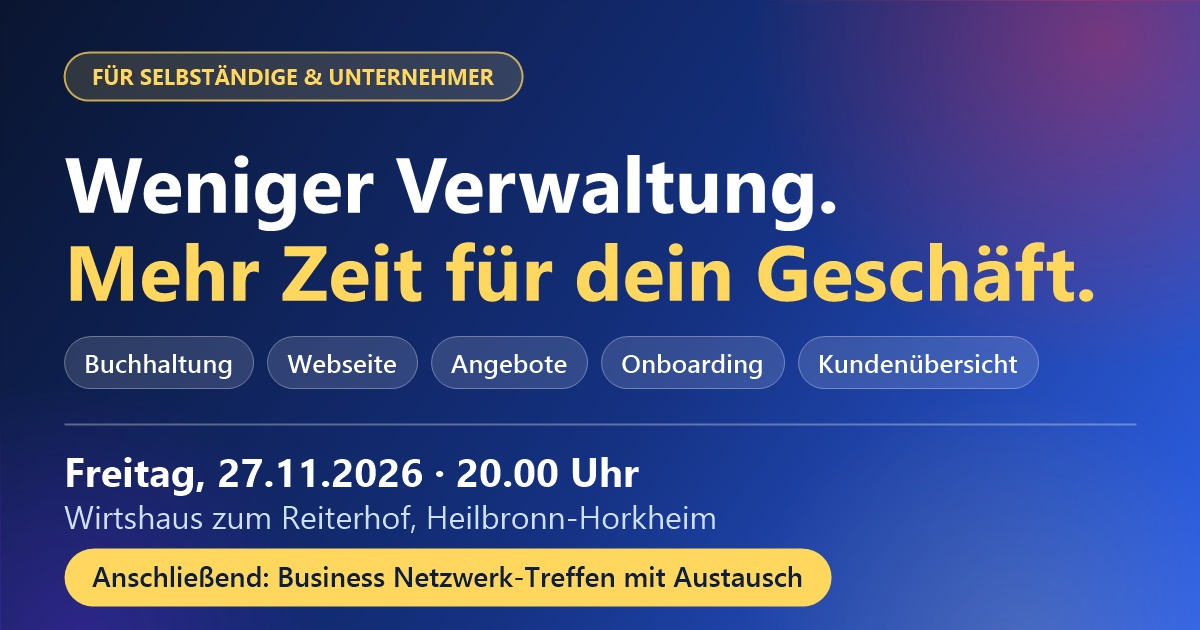
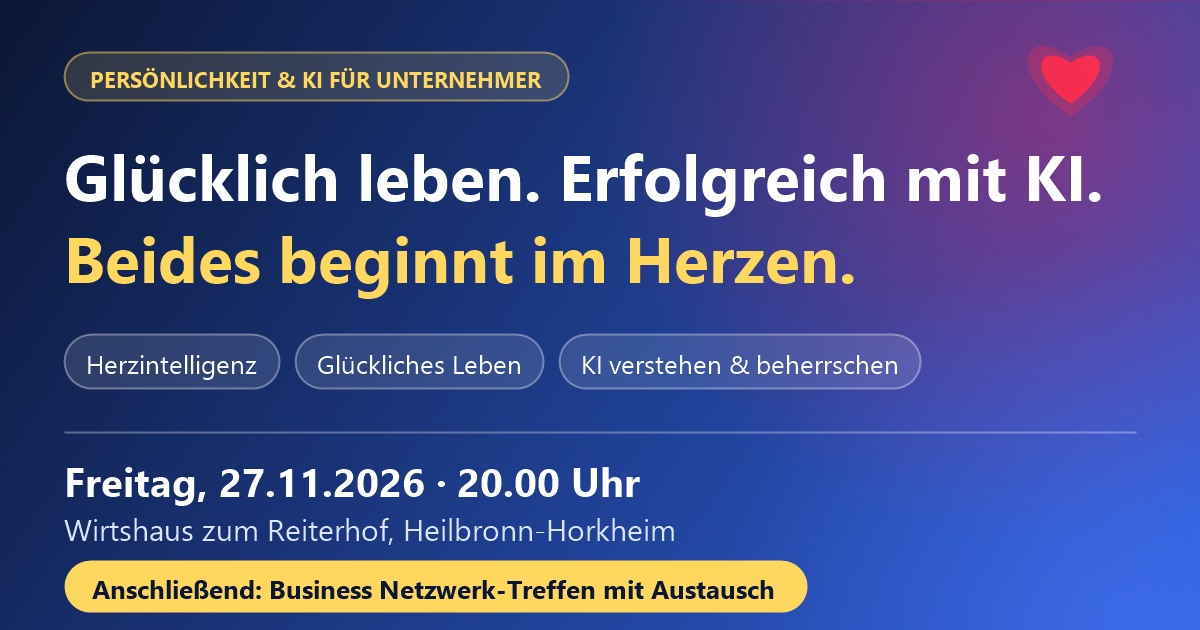
Add files via upload

diff --git a/js_img_css/info-seite.css b/js_img_css/info-seite.css
@@ -248,3 +248,20 @@ a.kt-kanal-mail .bi { color: var(--kt-blau-dunkel); }
   .kt-brand .bi { font-size: 1.75rem; }
   .kt-nav a.kt-nav-cta { padding: 0 14px; }
 }
+
+/* Herzintelligenz-Seite (Unternehmer), Version 2.1.0 */
+.kt-wichtig.kt-wichtig-3 { grid-template-columns: repeat(3, 1fr); }
+.kt-wichtig-3 .kt-ziel h3 { font-size: 1.3125rem; }
+.kt-wichtig-3 .kt-ziel > p { font-size: 1rem; }
+@media (max-width: 991.98px) { .kt-wichtig.kt-wichtig-3 { grid-template-columns: 1fr; } }
+.kt-tipps.kt-ki-schritte { margin-top: 20px; grid-template-columns: repeat(3, 1fr); }
+@media (max-width: 767.98px) { .kt-tipps.kt-ki-schritte { grid-template-columns: 1fr; } }
+.kt-auto.kt-auto-vier { grid-template-columns: repeat(4, 1fr); }
+@media (max-width: 1099.98px) { .kt-auto.kt-auto-vier { grid-template-columns: repeat(2, 1fr); } }
+@media (max-width: 639.98px) { .kt-auto.kt-auto-vier { grid-template-columns: 1fr; } }
+.kt-neugier { padding: 28px 28px 24px; border-left: 6px solid #e0245e; background: linear-gradient(135deg, #fff 0%, #fff4f7 100%); }
+.kt-neugier-liste { display: grid; gap: 16px; margin: 0 0 20px; padding: 0; list-style: none; }
+.kt-neugier-liste li { display: flex; align-items: flex-start; gap: 14px; font-size: 1.1875rem; font-weight: 600; line-height: 1.45; color: var(--kt-navy); }
+.kt-neugier-liste .bi { flex: none; font-size: 1.75rem; line-height: 1; color: #e0245e; }
+.kt-neugier-schluss { margin: 0; padding-top: 16px; border-top: 1px solid var(--kt-linie); font-size: 1.0625rem; font-weight: 700; color: var(--kt-blau-dunkel); }
+@media (max-width: 575.98px) { .kt-neugier { padding: 20px 18px; } .kt-neugier-liste li { font-size: 1.0625rem; } }
